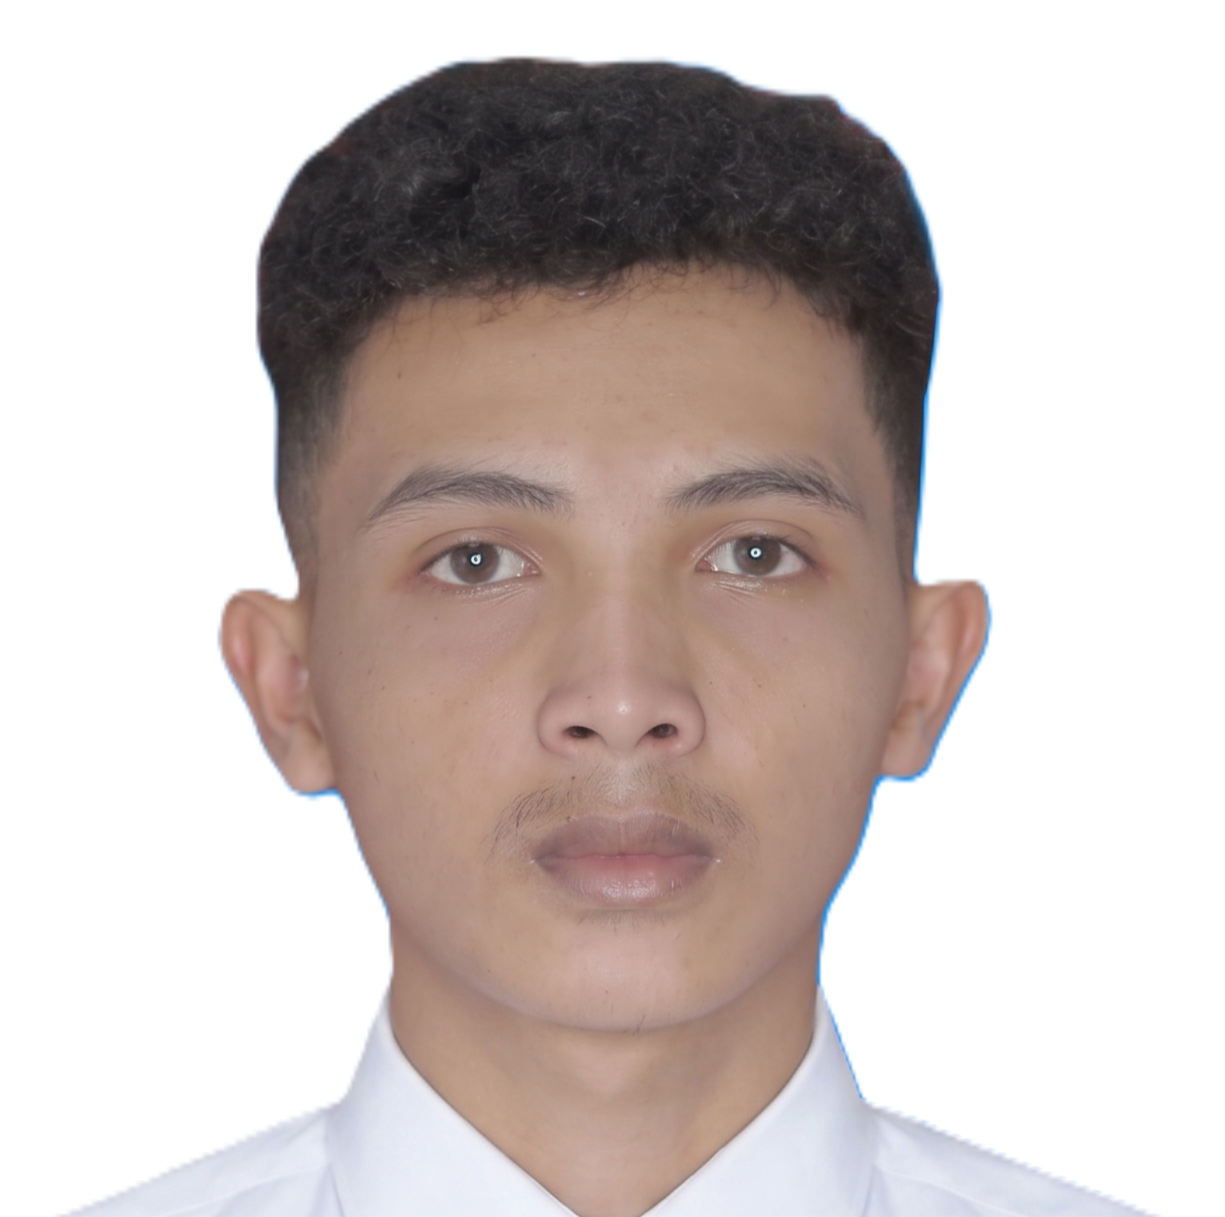
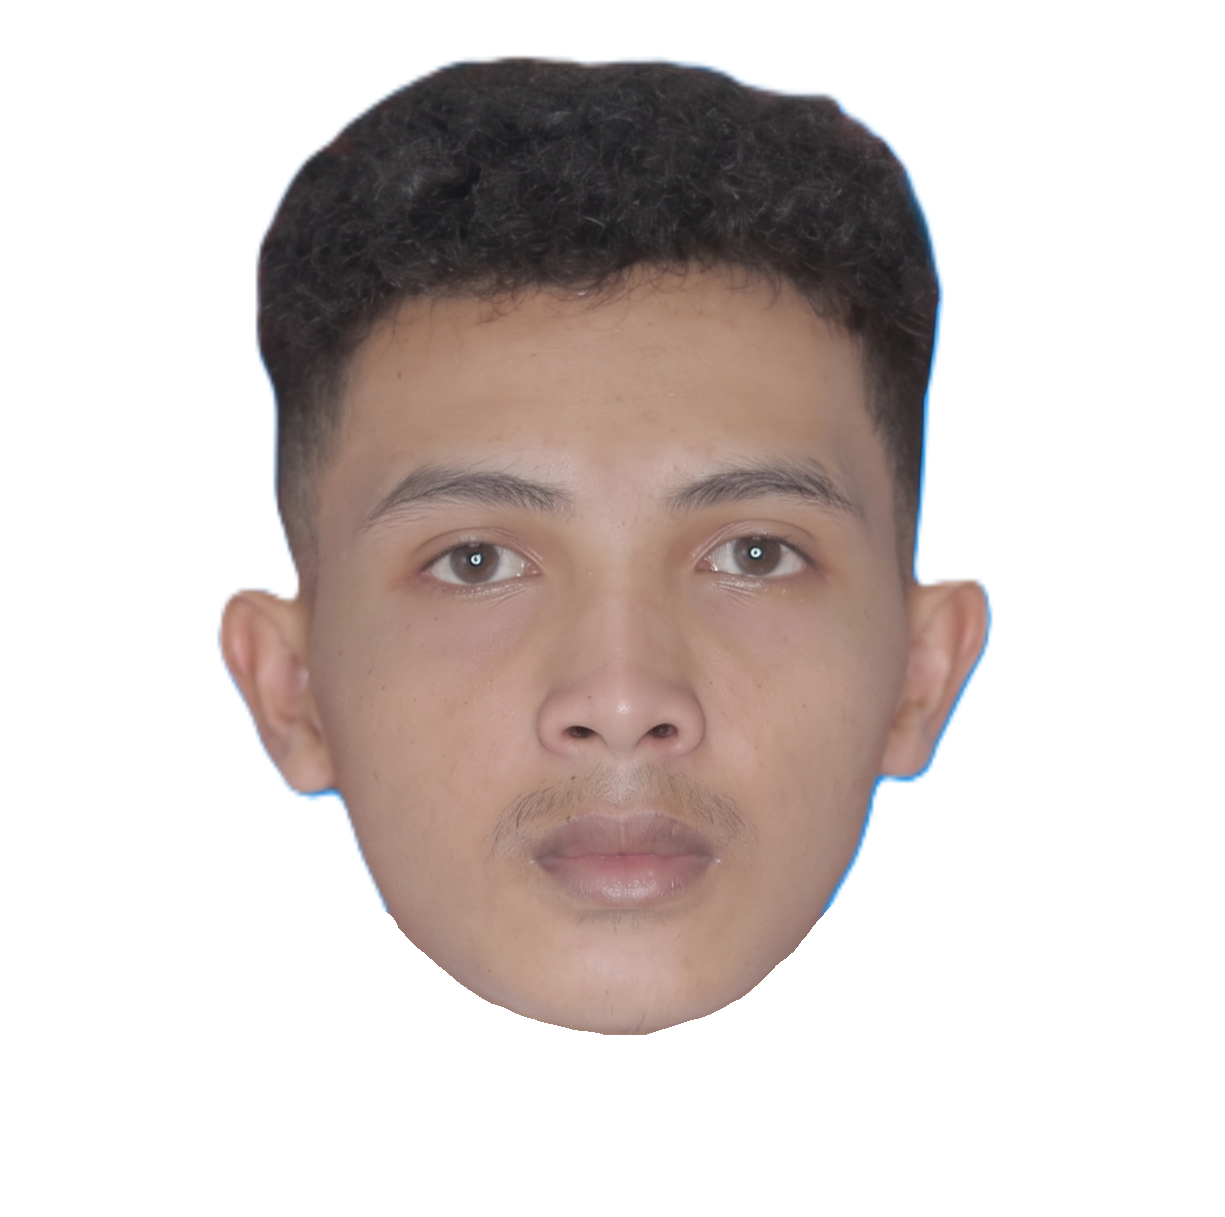
Ganti karakter Mario dengan gambar sprite

Changed region(s): [[0.031, 0.7494, 0.9616, 1.0]]

diff --git a/src/components/Retro.tsx b/src/components/Retro.tsx
@@ -101,38 +101,11 @@ export const PixelLogo = ({ size = 44 }: { size?: number }) => (
 
 export const MarioRun = () => (
     <div aria-hidden="true" className="fixed bottom-8 left-0 z-0 pointer-events-none mario-run">
-        <div className="flex flex-col items-center mario-bob">
-            <div className="relative">
-                <img
-                    src="/kepala.png"
-                    alt=""
-                    className="w-14 h-14 md:w-16 md:h-16 object-cover shrink-0 pixelated"
-                />
-                <div className="absolute -top-0.5 left-0 w-full h-[40%] bg-mario-red flex items-start justify-center pt-1">
-                    <span className="font-pixel text-[9px] md:text-[10px] text-white">M</span>
-                </div>
-                <div className="absolute bottom-0 right-[-12px] w-9 h-3 bg-mario-red" />
-            </div>
-            <div className="relative -mt-0.5">
-                <div className="absolute -top-3 -left-5 w-3 h-10 bg-mario-red" />
-                <div className="absolute -top-3 -right-5 w-3 h-10 bg-mario-red" />
-                <div className="absolute -top-1 -left-6 w-4 h-3 bg-[#f6c391]" />
-                <div className="absolute -top-1 -right-6 w-4 h-3 bg-[#f6c391]" />
-                <div className="w-11 h-7 md:w-12 md:h-8 bg-mario-red" />
-            </div>
-            <div className="relative w-11 h-5 md:w-12 md:h-6 bg-mario-blue -mt-0.5">
-                <div className="absolute -top-1.5 left-2 w-1.5 h-1.5 bg-mario-yellow" />
-                <div className="absolute -top-1.5 right-2 w-1.5 h-1.5 bg-mario-yellow" />
-            </div>
-            <div className="flex gap-4 -mt-0.5">
-                <div className="w-3 h-5 md:w-3.5 md:h-6 bg-mario-blue mario-leg-a" />
-                <div className="w-3 h-5 md:w-3.5 md:h-6 bg-mario-blue mario-leg-b" />
-            </div>
-            <div className="flex gap-1 -mt-0.5">
-                <div className="w-6 h-3 md:w-7 md:h-3.5 bg-mario-brown mario-leg-a" />
-                <div className="w-6 h-3 md:w-7 md:h-3.5 bg-mario-brown mario-leg-b" />
-            </div>
-        </div>
+        <img
+            src="/mario.png"
+            alt=""
+            className="w-16 h-16 md:w-20 md:h-20 object-contain shrink-0 pixelated mario-bob"
+        />
     </div>
 );
 
